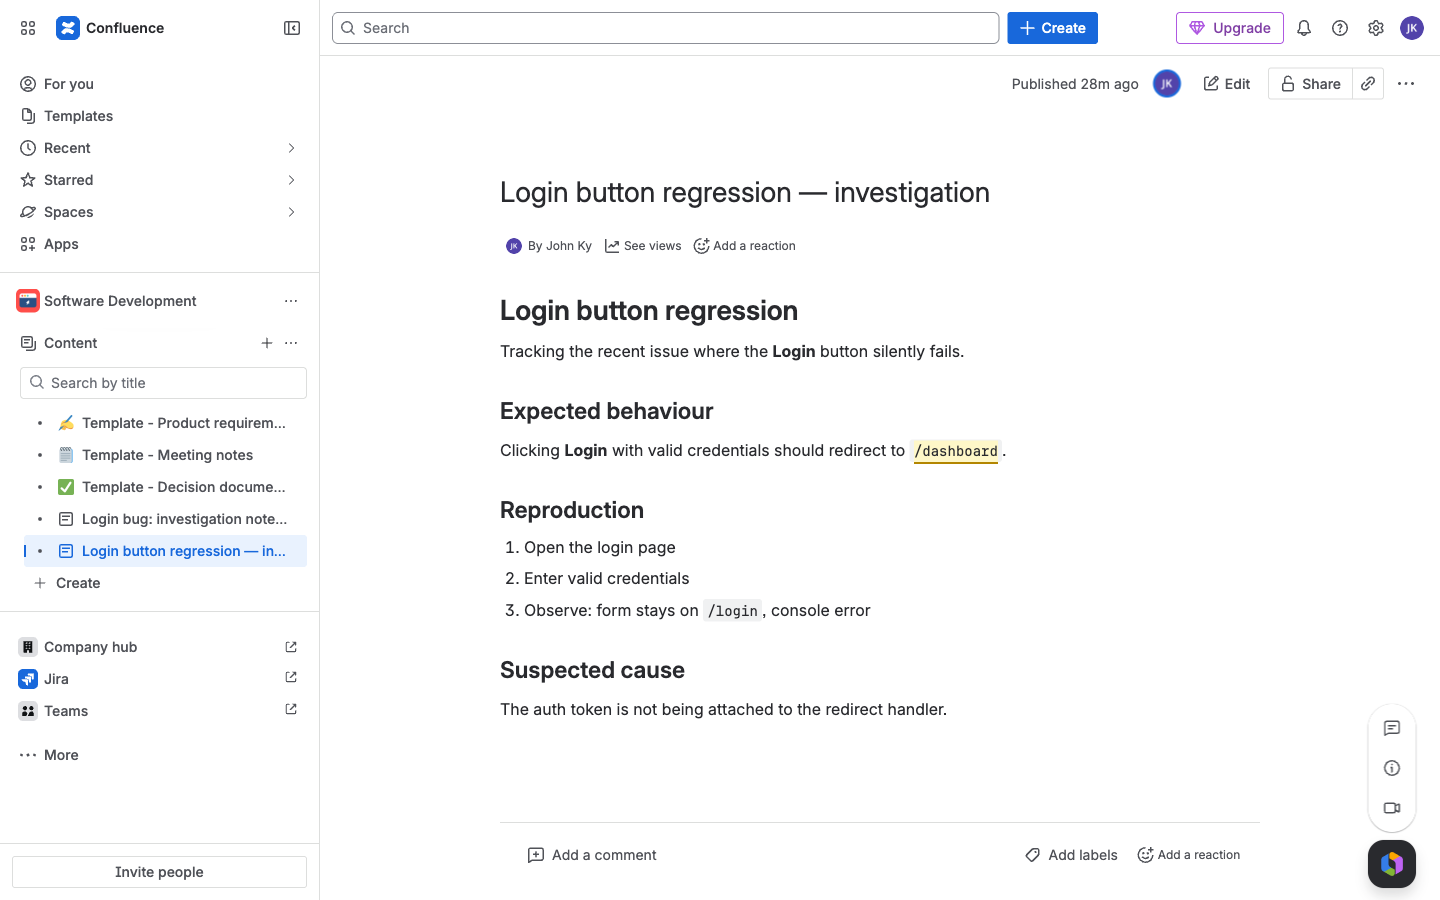
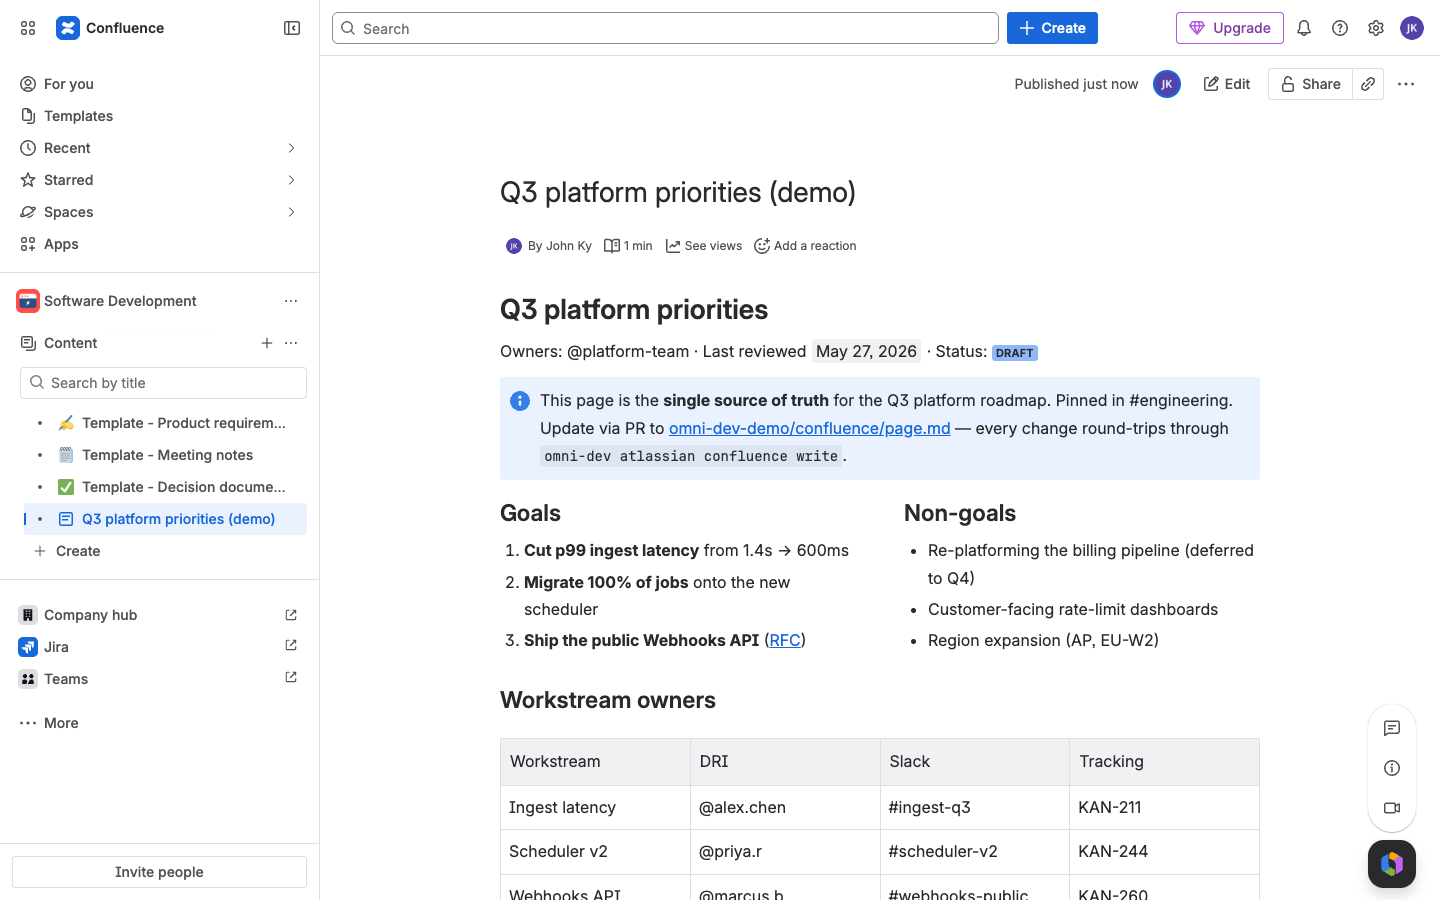
feat(website): switch landing-page demo to four-tab layout
Adds a tab bar above the demo grid that swaps between four casts +
their resulting artefacts. Each tab covers a single capability:

- Jira: JFM bug with panel, dates, status pills, nested lists, task
  list, code block, table, expand — paired with the rendered issue.
- Confluence: JFM page with two-column layout, decision list, nested
  expand-in-panel, inline-comment anchor — paired with the rendered
  page on Atlassian Cloud.
- Create PR: 3 commits ahead of main → `omni-dev branch create pr`
  → screenshot of the resulting GitHub PR on rust-works/omni-dev-demo.
- Twiddle commits: messy `wip` / `stuff` / `fix` messages →
  `omni-dev commit message twiddle --auto-apply` → screenshot of the
  rewritten commit list pushed back to GitHub.

The source for every cast (fixtures, `setup.sh`, `demo.sh`, the
`scripts/common.sh` helpers, the README explaining how to re-record)
lives at https://github.com/rust-works/omni-dev-demo.

Implementation notes:

- Vanilla JS tab switcher with ARIA roles (tablist / tab / tabpanel),
  arrow-key navigation, and Home/End to jump to the ends. Eager-inits
  the first tab on load so the cast starts immediately; lazy-creates
  the other three players on first activation to avoid spinning up
  four `AsciinemaPlayer` instances when only one is visible.
- All four casts are asciicast-v2 (asciinema-player 3.9.0 doesn't
  render v3; the recorder script's `--idle-time-limit` flag also
  didn't cap the long claude-cli idle, so the casts are post-processed
[…]

diff --git a/website/templates/index.html b/website/templates/index.html
@@ -15,12 +15,12 @@
 <section id="features">
   <h2>What it does</h2>
   <ul class="features">
-    <li><strong>AI-powered improvement</strong> — Claude analyses diffs and suggests meaningful commit messages.</li>
-    <li><strong>Contextual awareness</strong> — understands project structure, conventions, and prior work.</li>
-    <li><strong>Safe amendments</strong> — improve single or batched commit messages with working-directory validation.</li>
-    <li><strong>PR creation</strong> — generate complete pull request descriptions in one command.</li>
-    <li><strong>Atlassian integration</strong> — read and write Jira issues and Confluence pages, with JFM ⇄ ADF conversion.</li>
-    <li><strong>MCP server</strong> — drop omni-dev's capabilities into Claude Code via the bundled MCP binary.</li>
+    <li><strong>AI-powered improvement</strong> &mdash; Claude analyses diffs and suggests meaningful commit messages.</li>
+    <li><strong>Contextual awareness</strong> &mdash; understands project structure, conventions, and prior work.</li>
+    <li><strong>Safe amendments</strong> &mdash; improve single or batched commit messages with working-directory validation.</li>
+    <li><strong>PR creation</strong> &mdash; generate complete pull request descriptions in one command.</li>
+    <li><strong>Atlassian integration</strong> &mdash; read and write Jira issues and Confluence pages, with JFM &harr; ADF conversion.</li>
+    <li><strong>MCP server</strong> &mdash; drop omni-dev's capabilities into Claude Code via the bundled MCP binary.</li>
   </ul>
 </section>
 
@@ -33,64 +33,153 @@
 </section>
 
 <section id="demo" class="demo-wide">
-  <h2>Demo: Jira + Confluence from the CLI</h2>
+  <h2>Demo</h2>
   <p class="demo-caption">
-    File a Jira bug with a Markdown body, round-trip it back, drop a Confluence page that
-    links to the ticket, and anchor an inline comment to a phrase on the page &mdash; all
-    from your shell. JFM (JIRA-Flavored Markdown) is converted to Atlassian Document Format
-    end-to-end &mdash; the cast on the left runs the CLI, the screenshots on the right are
-    the resulting Atlassian pages, untouched.
+    Four short asciicasts &mdash; each paired with the artefact it produces.
+    The source for every cast lives at
+    <a href="https://github.com/rust-works/omni-dev-demo">rust-works/omni-dev-demo</a>.
   </p>
 
-  <div class="demo-grid">
-    <div class="demo-cast">
-      <div id="demo-player" class="asciinema-player-wrap"></div>
-    </div>
+  <div class="tabs" role="tablist" aria-label="omni-dev demos">
+    <button class="tab is-active" role="tab" id="tab-jira"       aria-selected="true"  aria-controls="panel-jira"       data-tab="jira">Jira</button>
+    <button class="tab"           role="tab" id="tab-confluence" aria-selected="false" aria-controls="panel-confluence" data-tab="confluence" tabindex="-1">Confluence</button>
+    <button class="tab"           role="tab" id="tab-pr"         aria-selected="false" aria-controls="panel-pr"         data-tab="pr"         tabindex="-1">Create PR</button>
+    <button class="tab"           role="tab" id="tab-twiddle"    aria-selected="false" aria-controls="panel-twiddle"    data-tab="twiddle"    tabindex="-1">Twiddle commits</button>
+  </div>
 
-    <div class="demo-renders">
-      <figure>
-        <a href="{{ get_url(path='screenshots/jira-issue.png') }}" target="_blank" rel="noopener">
-          <img src="{{ get_url(path='screenshots/jira-issue.png') }}" alt="Resulting Jira issue page rendered in Atlassian Cloud" loading="lazy">
-        </a>
-        <figcaption>Resulting Jira issue &mdash; headings, lists, inline code, labels, and code block rendered from the JFM source.</figcaption>
-      </figure>
-      <figure>
-        <a href="{{ get_url(path='screenshots/confluence-page.png') }}" target="_blank" rel="noopener">
-          <img src="{{ get_url(path='screenshots/confluence-page.png') }}" alt="Resulting Confluence page rendered in Atlassian Cloud" loading="lazy">
-        </a>
-        <figcaption>Resulting Confluence page &mdash; the yellow highlight on <code>/dashboard</code> is the inline-comment anchor.</figcaption>
-      </figure>
-      <figure>
-        <a href="{{ get_url(path='screenshots/confluence-inline-comment.png') }}" target="_blank" rel="noopener">
-          <img src="{{ get_url(path='screenshots/confluence-inline-comment.png') }}" alt="Confluence inline comment expanded next to the anchored text" loading="lazy">
-        </a>
-        <figcaption>Click the anchor and the inline comment opens &mdash; the body is exactly what the CLI sent.</figcaption>
-      </figure>
+  <div class="tab-panel is-active" role="tabpanel" id="panel-jira" aria-labelledby="tab-jira" data-panel="jira">
+    <p class="panel-caption">
+      A bug-report JFM file exercises nested numbered/bulleted lists, a warning panel,
+      a task list with mixed states, dates and status pills, an inline code mark, a
+      fenced JavaScript code block, a pipe table, and an expand block. One CLI call
+      creates the issue in Jira; <code>jira read</code> rolls it back to identical
+      Markdown.
+    </p>
+    <div class="demo-grid">
+      <div class="demo-cast"><div id="cast-jira" class="asciinema-player-wrap"></div></div>
+      <div class="demo-renders">
+        <figure>
+          <a href="{{ get_url(path='screenshots/jira-issue.png') }}" target="_blank" rel="noopener">
+            <img src="{{ get_url(path='screenshots/jira-issue.png') }}" alt="Resulting Jira issue page rendered in Atlassian Cloud" loading="lazy">
+          </a>
+          <figcaption>Resulting Jira issue &mdash; panel, dates, status pills, nested lists, task list, code block, table, and expand all rendered from the JFM source.</figcaption>
+        </figure>
+      </div>
     </div>
   </div>
-</section>
 
-<section id="demo-commits">
-  <h2>Also: AI-driven commit-message cleanup</h2>
-  <pre><code># Improve commits on the current branch
-omni-dev git commit message twiddle 'origin/main..HEAD' --use-context
+  <div class="tab-panel" role="tabpanel" id="panel-confluence" aria-labelledby="tab-confluence" data-panel="confluence" hidden>
+    <p class="panel-caption">
+      A Q3 priorities JFM file exercises Confluence-specific elements: a two-column
+      layout, a decision list, a nested expand block, an info panel containing a
+      warning panel, plus the inline-comment anchor that gets attached in a separate
+      CLI call.
+    </p>
+    <div class="demo-grid">
+      <div class="demo-cast"><div id="cast-confluence" class="asciinema-player-wrap"></div></div>
+      <div class="demo-renders">
+        <figure>
+          <a href="{{ get_url(path='screenshots/confluence-page.png') }}" target="_blank" rel="noopener">
+            <img src="{{ get_url(path='screenshots/confluence-page.png') }}" alt="Resulting Confluence page rendered in Atlassian Cloud" loading="lazy">
+          </a>
+          <figcaption>Resulting Confluence page &mdash; the yellow highlight on &ldquo;thundering herd&rdquo; (further down) is the inline-comment anchor from the second command.</figcaption>
+        </figure>
+      </div>
+    </div>
+  </div>
 
-# Before: "fix stuff", "wip", "update files"
-# After:  "feat(auth): implement OAuth2 authentication system"
-#         "docs(api): add comprehensive endpoint documentation"
-#         "fix(ui): resolve mobile responsive layout issues"
+  <div class="tab-panel" role="tabpanel" id="panel-pr" aria-labelledby="tab-pr" data-panel="pr" hidden>
+    <p class="panel-caption">
+      Three commits ahead of <code>main</code>. <code>omni-dev git branch create pr</code>
+      reads the commits, asks Claude for a PR title and body that summarises them,
+      pushes the branch, and opens the PR via <code>gh</code>.
+    </p>
+    <div class="demo-grid">
+      <div class="demo-cast"><div id="cast-pr" class="asciinema-player-wrap"></div></div>
+      <div class="demo-renders">
+        <figure>
+          <a href="{{ get_url(path='screenshots/pr-result.png') }}" target="_blank" rel="noopener">
+            <img src="{{ get_url(path='screenshots/pr-result.png') }}" alt="Resulting GitHub pull request page" loading="lazy">
+          </a>
+          <figcaption>Resulting PR on <a href="https://github.com/rust-works/omni-dev-demo/pull/1">rust-works/omni-dev-demo#1</a> &mdash; title and body generated from the three commits on the branch.</figcaption>
+        </figure>
+      </div>
+    </div>
+  </div>
 
-# Create a PR with AI-generated description
-omni-dev git branch create pr</code></pre>
+  <div class="tab-panel" role="tabpanel" id="panel-twiddle" aria-labelledby="tab-twiddle" data-panel="twiddle" hidden>
+    <p class="panel-caption">
+      Three deliberately messy commits (<code>wip</code>, <code>stuff</code>,
+      <code>fix</code>). <code>omni-dev commit message twiddle</code> reads each diff,
+      asks Claude for a Conventional Commits message that reflects the change, and
+      rewrites the branch via <code>git rebase</code>.
+    </p>
+    <div class="demo-grid">
+      <div class="demo-cast"><div id="cast-twiddle" class="asciinema-player-wrap"></div></div>
+      <div class="demo-renders">
+        <figure>
+          <a href="{{ get_url(path='screenshots/twiddle-result.png') }}" target="_blank" rel="noopener">
+            <img src="{{ get_url(path='screenshots/twiddle-result.png') }}" alt="GitHub commit list showing the rewritten commit messages" loading="lazy">
+          </a>
+          <figcaption>Top three commits on <a href="https://github.com/rust-works/omni-dev-demo/commits/demo/twiddle">demo/twiddle</a> after force-push &mdash; the three messy messages are gone.</figcaption>
+        </figure>
+      </div>
+    </div>
+  </div>
 </section>
 {% endblock %}
 
 {% block scripts %}
 <script>
-  AsciinemaPlayer.create(
-    '{{ get_url(path="demo-atlassian.cast") }}',
-    document.getElementById('demo-player'),
-    { autoPlay: true, loop: true, speed: 1, fit: 'width', poster: 'npt:0:01' }
-  );
+  (function () {
+    const casts = {
+      jira:       '{{ get_url(path="demo-jira.cast") }}',
+      confluence: '{{ get_url(path="demo-confluence.cast") }}',
+      pr:         '{{ get_url(path="demo-pr.cast") }}',
+      twiddle:    '{{ get_url(path="demo-twiddle.cast") }}'
+    };
+    const players = {};
+
+    function createPlayer(name) {
+      if (players[name]) return players[name];
+      players[name] = AsciinemaPlayer.create(
+        casts[name],
+        document.getElementById('cast-' + name),
+        { autoPlay: true, loop: true, speed: 1, fit: 'width', poster: 'npt:0:01' }
+      );
+      return players[name];
+    }
+
+    function activate(name) {
+      document.querySelectorAll('.tab').forEach(t => {
+        const on = t.dataset.tab === name;
+        t.classList.toggle('is-active', on);
+        t.setAttribute('aria-selected', on ? 'true' : 'false');
+        t.tabIndex = on ? 0 : -1;
+      });
+      document.querySelectorAll('.tab-panel').forEach(p => {
+        const on = p.dataset.panel === name;
+        p.classList.toggle('is-active', on);
+        if (on) { p.removeAttribute('hidden'); } else { p.setAttribute('hidden', ''); }
+      });
+      createPlayer(name);
+    }
+
+    const tabs = Array.from(document.querySelectorAll('.tab'));
+    tabs.forEach((tab, i) => {
+      tab.addEventListener('click', () => activate(tab.dataset.tab));
+      tab.addEventListener('keydown', (e) => {
+        let next = null;
+        if (e.key === 'ArrowRight') next = tabs[(i + 1) % tabs.length];
+        else if (e.key === 'ArrowLeft') next = tabs[(i - 1 + tabs.length) % tabs.length];
+        else if (e.key === 'Home') next = tabs[0];
+        else if (e.key === 'End') next = tabs[tabs.length - 1];
+        if (next) { e.preventDefault(); activate(next.dataset.tab); next.focus(); }
+      });
+    });
+
+    // Eager-init the visible (first) tab so the cast starts on load.
+    activate('jira');
+  })();
 </script>
 {% endblock %}

diff --git a/website/sass/style.scss b/website/sass/style.scss
@@ -144,11 +144,58 @@ p code, li code {
   box-sizing: border-box;
 
   > h2,
-  > .demo-caption {
+  > .demo-caption,
+  > .tabs {
     max-width: 1200px;
     margin-left: auto;
     margin-right: auto;
   }
+}
+
+.tabs {
+  display: flex;
+  flex-wrap: wrap;
+  gap: 0.25rem;
+  margin-bottom: 1.5rem;
+  border-bottom: 1px solid #e5e5e5;
+
+  .tab {
+    appearance: none;
+    background: transparent;
+    border: none;
+    border-bottom: 2px solid transparent;
+    padding: 0.6rem 0.9rem;
+    margin-bottom: -1px;
+    cursor: pointer;
+    font-size: 0.95rem;
+    font-weight: 500;
+    color: $muted;
+    transition: color 0.15s ease, border-color 0.15s ease;
+
+    &:hover { color: $fg; }
+    &:focus-visible {
+      outline: none;
+      color: $fg;
+      box-shadow: 0 0 0 2px rgba($accent, 0.25);
+      border-radius: 4px 4px 0 0;
+    }
+
+    &.is-active {
+      color: $accent;
+      border-bottom-color: $accent;
+    }
+  }
+}
+
+.tab-panel {
+  max-width: 1200px;
+  margin: 0 auto;
+}
+
+.panel-caption {
+  color: $muted;
+  margin: 0 auto 1.25rem;
+  max-width: 1200px;
 }
 
 .demo-grid {
